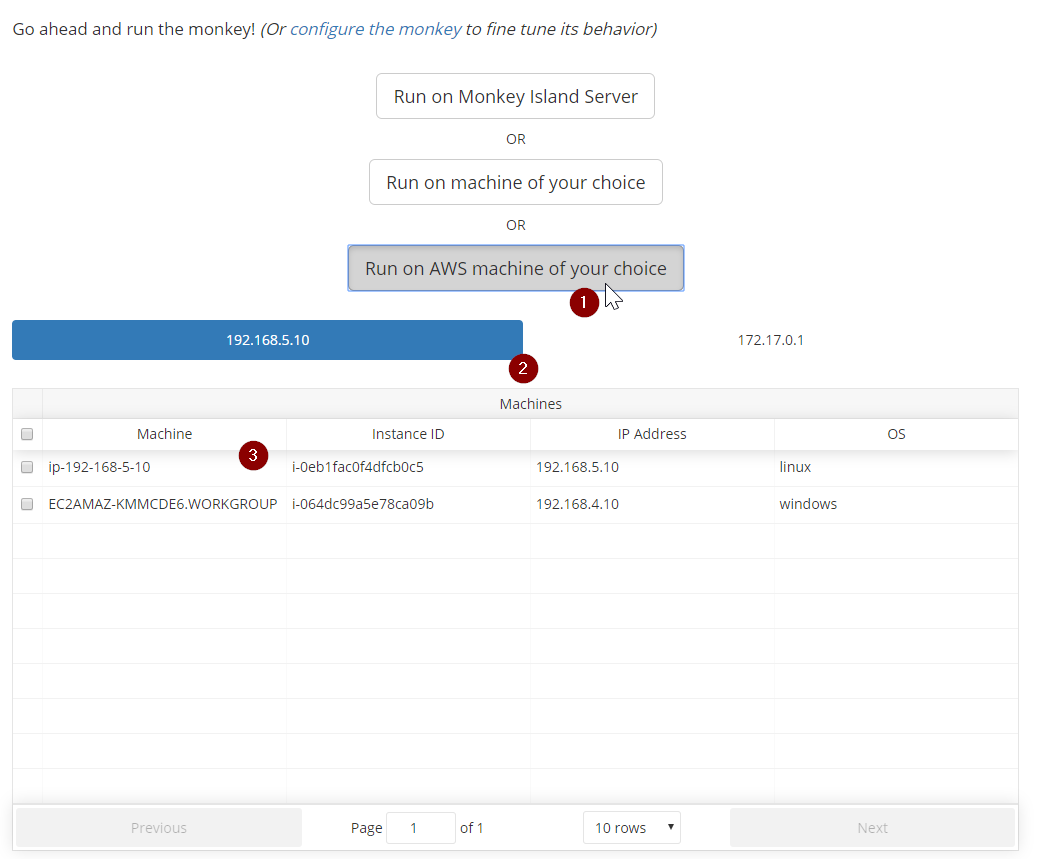
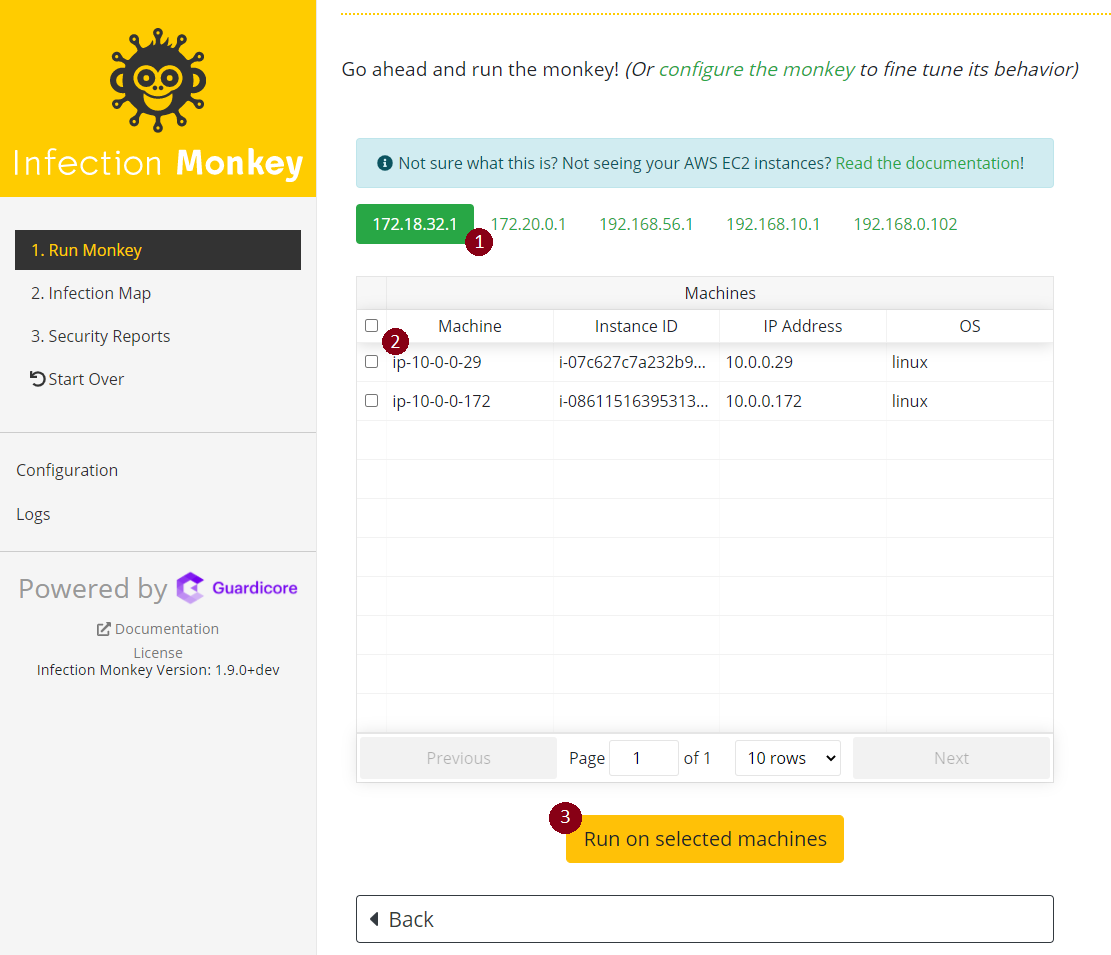
Doc update in accordance to UI changes for AWS run button (screenshots updated, descriptions updated)

diff --git a/docs/content/usage/integrations/aws-run-on-ec2-machine.md b/docs/content/usage/integrations/aws-run-on-ec2-machine.md
@@ -54,16 +54,15 @@ See [Amazon's documentation about working with SSM agents](https://docs.aws.amaz
 
 ### Running the monkey
 
-When you run the monkey island on an AWS instance, the island detects it's running on AWS and present the following option in the _"Run Monkey"_ page, like so:
+When you run the Monkey Island on an AWS instance, the island detects it's running on AWS and present the following option in the _"Run Monkey"_ page, like so:
 
 ![Running a Monkey on EC2 Instance](/images/usage/integrations/monkey-island-aws-screenshot-1.png "Running a Monkey on EC2 Instance")
 
-And then you can choose one of the available instances as "patient zero" like so:
+After you click on "AWS run" you can choose one of the available instances as "patient zero" like so:
 
-1. Click on "Run on AWS"
-2. Choose the relevant Network Interface
-3. Select the machines you'd like to run the Monkey on
-4. Click "Run on Selected Machines", and watch the monkey go! 🐒
+1. Choose the relevant Network Interface
+2. Select the machines you'd like to run the Monkey on
+3. Click "Run on Selected Machines", and watch the monkey go! 🐒
 
 ![Running a Monkey on EC2 Instance](/images/usage/integrations/monkey-island-aws-screenshot-2.png "Running a Monkey on EC2 Instance")
 
